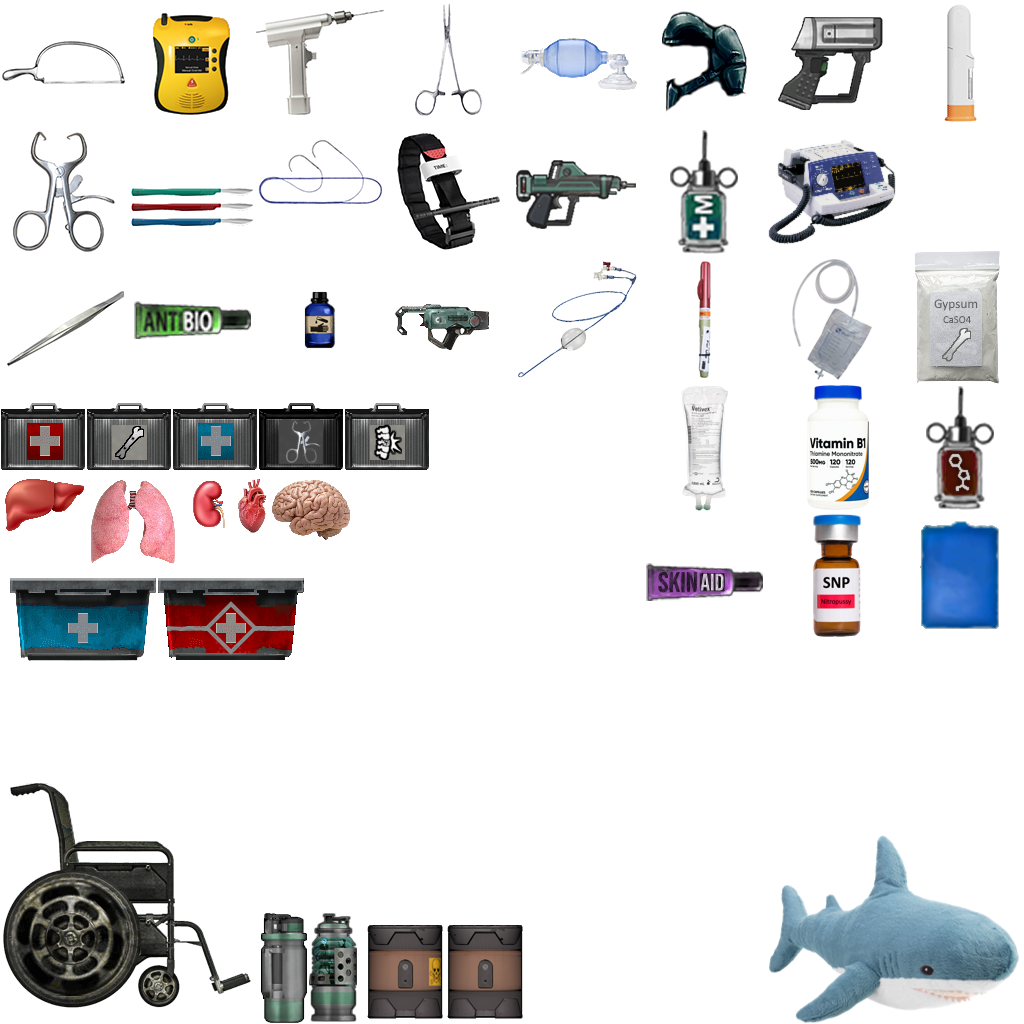
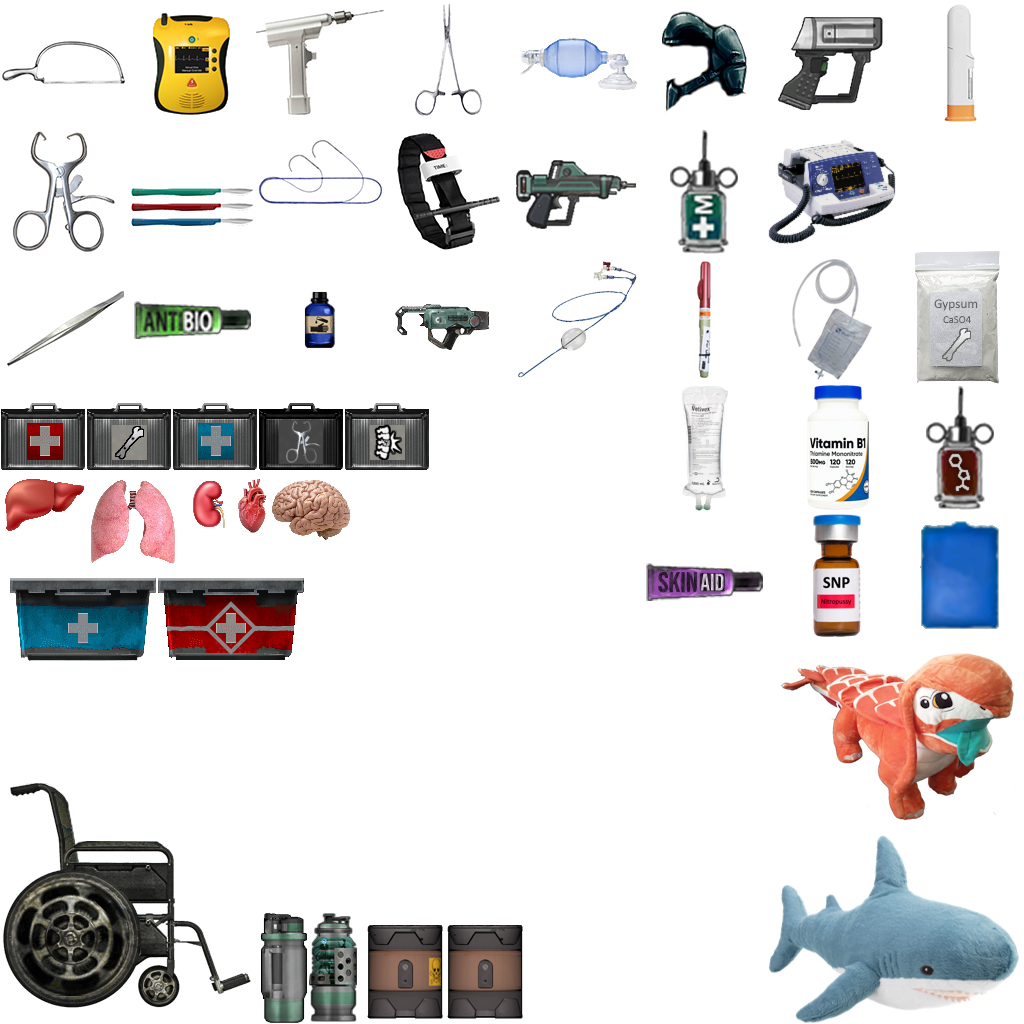
plush

Changed region(s): [[0.75, 0.625, 1.0, 0.8125]]

diff --git a/SharedProject/SharedSource/Components/Items/ItemData.cs b/SharedProject/SharedSource/Components/Items/ItemData.cs
@@ -1071,6 +1071,13 @@ public class NTItemsData
             HF.GiveItem(infos.target.Human, "ntsfx_squeak");
         });
 
+        // Lizard Doggo
+        loader.Register("lizarddoggo", infos =>
+        {
+            HF.AddAffliction(infos.target.Human, "psychosis", -2f, infos.user.Human);
+            HF.GiveItem(infos.target.Human, "ntsfx_squeak");
+        });
+
         // ============== Overrides ==============
         // Wrenches
         WrenchItems.AddRange(
